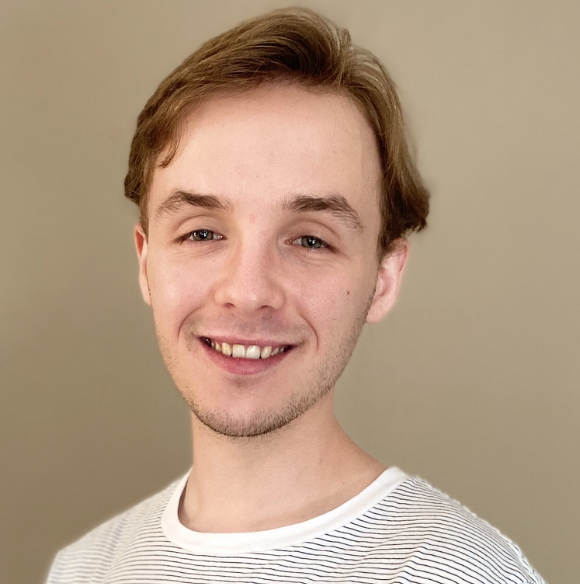
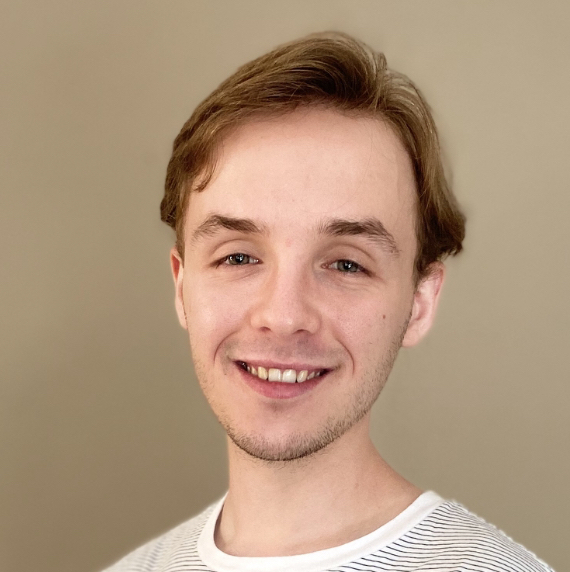
clean up

diff --git a/_site/2022/music/index.html b/_site/2022/music/index.html
@@ -64,7 +64,7 @@ Romantic Flight(How to Train Your Dragon) by John Powell
   <meta name="msapplication-TileImage" content="/assets/images/favicons/mstile-144x144.png">
   <meta name="theme-color" content="#ffffff">
   
-  <link rel="stylesheet" href="/assets/css/main.css?1660277697072665000">
+  <link rel="stylesheet" href="/assets/css/main.css?1660278052048021000">
   <link rel="canonical" href="http://localhost:4000/2022/music/">
   <link rel="alternate" type="application/rss+xml" title="Samuel Arnesen" href="/feed.xml">
 </head>
@@ -82,7 +82,7 @@ Romantic Flight(How to Train Your Dragon) by John Powell
     <div class="panel-main__inner panel-inverted">
     <div class="panel-main__content">
         <a href="/" title="link to home of Samuel Arnesen">
-          <img src="/assets/images/profile-cropped.jpg" class="user-image" alt="My Profile Photo">
+          <img src="/assets/images/profile.jpg" class="user-image" alt="My Profile Photo">
           <h1 class="panel-cover__title panel-title">Samuel Arnesen</h1>
         </a>
         <hr class="panel-cover__divider">
@@ -225,7 +225,7 @@ Romantic Flight(How to Train Your Dragon) by John Powell
 </footer>
 
 <script type="text/javascript" src="https://ajax.googleapis.com/ajax/libs/jquery/3.3.1/jquery.min.js"></script>
-<script type="text/javascript" src="/assets/js/main.js?1660277697072665000"></script>
+<script type="text/javascript" src="/assets/js/main.js?1660278052048021000"></script>
 
 
     </div>

diff --git a/_includes/header.html b/_includes/header.html
@@ -20,19 +20,19 @@
 
           <nav class="cover-navigation cover-navigation--primary">
             <ul class="navigation">
-              <li class="navigation__item"><a href="{{ site.baseurl }}/2022/hello" title="link to {{ site.title }} hello page" class="blog-button">About Me</a></li>
+              <li class="navigation__item"><a href="{{ site.baseurl }}/2022/about-me" title="link to {{ site.title }} hello page" class="blog-button">About Me</a></li>
+            </ul>
+          </nav>
+
+        <nav class="cover-navigation cover-navigation--primary">
+            <ul class="navigation">
+              <li class="navigation__item"><a href="{{ site.baseurl }}/2022/projects" title="link to {{ site.title }} projects" class="blog-button">Projects</a></li>
             </ul>
           </nav>
 
           <nav class="cover-navigation cover-navigation--primary">
             <ul class="navigation">
               <li class="navigation__item"><a href="{{ site.baseurl }}/2022/experience" title="link to {{ site.title }} experience" class="blog-button">Experience</a></li>
-            </ul>
-          </nav>
-
-          <nav class="cover-navigation cover-navigation--primary">
-            <ul class="navigation">
-              <li class="navigation__item"><a href="{{ site.baseurl }}/2022/projects" title="link to {{ site.title }} projects" class="blog-button">Projects</a></li>
             </ul>
           </nav>
 

diff --git a/_site/2022/movies/index.html b/_site/2022/movies/index.html
@@ -55,7 +55,7 @@ Summit of the Gods (2021)
   <meta name="msapplication-TileImage" content="/assets/images/favicons/mstile-144x144.png">
   <meta name="theme-color" content="#ffffff">
   
-  <link rel="stylesheet" href="/assets/css/main.css?1660277697072665000">
+  <link rel="stylesheet" href="/assets/css/main.css?1660278052048021000">
   <link rel="canonical" href="http://localhost:4000/2022/movies/">
   <link rel="alternate" type="application/rss+xml" title="Samuel Arnesen" href="/feed.xml">
 </head>
@@ -73,7 +73,7 @@ Summit of the Gods (2021)
     <div class="panel-main__inner panel-inverted">
     <div class="panel-main__content">
         <a href="/" title="link to home of Samuel Arnesen">
-          <img src="/assets/images/profile-cropped.jpg" class="user-image" alt="My Profile Photo">
+          <img src="/assets/images/profile.jpg" class="user-image" alt="My Profile Photo">
           <h1 class="panel-cover__title panel-title">Samuel Arnesen</h1>
         </a>
         <hr class="panel-cover__divider">
@@ -281,7 +281,7 @@ Summit of the Gods (2021)
 </footer>
 
 <script type="text/javascript" src="https://ajax.googleapis.com/ajax/libs/jquery/3.3.1/jquery.min.js"></script>
-<script type="text/javascript" src="/assets/js/main.js?1660277697072665000"></script>
+<script type="text/javascript" src="/assets/js/main.js?1660278052048021000"></script>
 
 
     </div>

diff --git a/_site/2022/favorites/index.html b/_site/2022/favorites/index.html
@@ -55,7 +55,7 @@ Books
   <meta name="msapplication-TileImage" content="/assets/images/favicons/mstile-144x144.png">
   <meta name="theme-color" content="#ffffff">
   
-  <link rel="stylesheet" href="/assets/css/main.css?1660277697072665000">
+  <link rel="stylesheet" href="/assets/css/main.css?1660278052048021000">
   <link rel="canonical" href="http://localhost:4000/2022/favorites/">
   <link rel="alternate" type="application/rss+xml" title="Samuel Arnesen" href="/feed.xml">
 </head>
@@ -73,7 +73,7 @@ Books
     <div class="panel-main__inner panel-inverted">
     <div class="panel-main__content">
         <a href="/" title="link to home of Samuel Arnesen">
-          <img src="/assets/images/profile-cropped.jpg" class="user-image" alt="My Profile Photo">
+          <img src="/assets/images/profile.jpg" class="user-image" alt="My Profile Photo">
           <h1 class="panel-cover__title panel-title">Samuel Arnesen</h1>
         </a>
         <hr class="panel-cover__divider">
@@ -193,7 +193,7 @@ Books
 </footer>
 
 <script type="text/javascript" src="https://ajax.googleapis.com/ajax/libs/jquery/3.3.1/jquery.min.js"></script>
-<script type="text/javascript" src="/assets/js/main.js?1660277697072665000"></script>
+<script type="text/javascript" src="/assets/js/main.js?1660278052048021000"></script>
 
 
     </div>

diff --git a/_site/2022/experience/index.html b/_site/2022/experience/index.html
@@ -52,7 +52,7 @@
   <meta name="msapplication-TileImage" content="/assets/images/favicons/mstile-144x144.png">
   <meta name="theme-color" content="#ffffff">
   
-  <link rel="stylesheet" href="/assets/css/main.css?1660277697072665000">
+  <link rel="stylesheet" href="/assets/css/main.css?1660278052048021000">
   <link rel="canonical" href="http://localhost:4000/2022/experience/">
   <link rel="alternate" type="application/rss+xml" title="Samuel Arnesen" href="/feed.xml">
 </head>
@@ -70,7 +70,7 @@
     <div class="panel-main__inner panel-inverted">
     <div class="panel-main__content">
         <a href="/" title="link to home of Samuel Arnesen">
-          <img src="/assets/images/profile-cropped.jpg" class="user-image" alt="My Profile Photo">
+          <img src="/assets/images/profile.jpg" class="user-image" alt="My Profile Photo">
           <h1 class="panel-cover__title panel-title">Samuel Arnesen</h1>
         </a>
         <hr class="panel-cover__divider">
@@ -265,7 +265,7 @@
 </footer>
 
 <script type="text/javascript" src="https://ajax.googleapis.com/ajax/libs/jquery/3.3.1/jquery.min.js"></script>
-<script type="text/javascript" src="/assets/js/main.js?1660277697072665000"></script>
+<script type="text/javascript" src="/assets/js/main.js?1660278052048021000"></script>
 
 
     </div>

diff --git a/_site/2022/about-me/index.html b/_site/2022/about-me/index.html
@@ -52,7 +52,7 @@
   <meta name="msapplication-TileImage" content="/assets/images/favicons/mstile-144x144.png">
   <meta name="theme-color" content="#ffffff">
   
-  <link rel="stylesheet" href="/assets/css/main.css?1660277697072665000">
+  <link rel="stylesheet" href="/assets/css/main.css?1660278052048021000">
   <link rel="canonical" href="http://localhost:4000/2022/about-me/">
   <link rel="alternate" type="application/rss+xml" title="Samuel Arnesen" href="/feed.xml">
 </head>
@@ -70,7 +70,7 @@
     <div class="panel-main__inner panel-inverted">
     <div class="panel-main__content">
         <a href="/" title="link to home of Samuel Arnesen">
-          <img src="/assets/images/profile-cropped.jpg" class="user-image" alt="My Profile Photo">
+          <img src="/assets/images/profile.jpg" class="user-image" alt="My Profile Photo">
           <h1 class="panel-cover__title panel-title">Samuel Arnesen</h1>
         </a>
         <hr class="panel-cover__divider">
@@ -191,7 +191,7 @@
 </footer>
 
 <script type="text/javascript" src="https://ajax.googleapis.com/ajax/libs/jquery/3.3.1/jquery.min.js"></script>
-<script type="text/javascript" src="/assets/js/main.js?1660277697072665000"></script>
+<script type="text/javascript" src="/assets/js/main.js?1660278052048021000"></script>
 
 
     </div>

diff --git a/_site/2022/projects/index.html b/_site/2022/projects/index.html
@@ -52,7 +52,7 @@
   <meta name="msapplication-TileImage" content="/assets/images/favicons/mstile-144x144.png">
   <meta name="theme-color" content="#ffffff">
   
-  <link rel="stylesheet" href="/assets/css/main.css?1660277697072665000">
+  <link rel="stylesheet" href="/assets/css/main.css?1660278052048021000">
   <link rel="canonical" href="http://localhost:4000/2022/projects/">
   <link rel="alternate" type="application/rss+xml" title="Samuel Arnesen" href="/feed.xml">
 </head>
@@ -70,7 +70,7 @@
     <div class="panel-main__inner panel-inverted">
     <div class="panel-main__content">
         <a href="/" title="link to home of Samuel Arnesen">
-          <img src="/assets/images/profile-cropped.jpg" class="user-image" alt="My Profile Photo">
+          <img src="/assets/images/profile.jpg" class="user-image" alt="My Profile Photo">
           <h1 class="panel-cover__title panel-title">Samuel Arnesen</h1>
         </a>
         <hr class="panel-cover__divider">
@@ -227,7 +227,7 @@
 </footer>
 
 <script type="text/javascript" src="https://ajax.googleapis.com/ajax/libs/jquery/3.3.1/jquery.min.js"></script>
-<script type="text/javascript" src="/assets/js/main.js?1660277697072665000"></script>
+<script type="text/javascript" src="/assets/js/main.js?1660278052048021000"></script>
 
 
     </div>

diff --git a/_site/2022/books/index.html b/_site/2022/books/index.html
@@ -52,7 +52,7 @@
   <meta name="msapplication-TileImage" content="/assets/images/favicons/mstile-144x144.png">
   <meta name="theme-color" content="#ffffff">
   
-  <link rel="stylesheet" href="/assets/css/main.css?1660277697072665000">
+  <link rel="stylesheet" href="/assets/css/main.css?1660278052048021000">
   <link rel="canonical" href="http://localhost:4000/2022/books/">
   <link rel="alternate" type="application/rss+xml" title="Samuel Arnesen" href="/feed.xml">
 </head>
@@ -70,7 +70,7 @@
     <div class="panel-main__inner panel-inverted">
     <div class="panel-main__content">
         <a href="/" title="link to home of Samuel Arnesen">
-          <img src="/assets/images/profile-cropped.jpg" class="user-image" alt="My Profile Photo">
+          <img src="/assets/images/profile.jpg" class="user-image" alt="My Profile Photo">
           <h1 class="panel-cover__title panel-title">Samuel Arnesen</h1>
         </a>
         <hr class="panel-cover__divider">
@@ -324,7 +324,7 @@
 </footer>
 
 <script type="text/javascript" src="https://ajax.googleapis.com/ajax/libs/jquery/3.3.1/jquery.min.js"></script>
-<script type="text/javascript" src="/assets/js/main.js?1660277697072665000"></script>
+<script type="text/javascript" src="/assets/js/main.js?1660278052048021000"></script>
 
 
     </div>

diff --git a/_site/categories/index.html b/_site/categories/index.html
@@ -48,7 +48,7 @@
   <meta name="msapplication-TileImage" content="/assets/images/favicons/mstile-144x144.png">
   <meta name="theme-color" content="#ffffff">
   
-  <link rel="stylesheet" href="/assets/css/main.css?1660277697072665000">
+  <link rel="stylesheet" href="/assets/css/main.css?1660278052048021000">
   <link rel="canonical" href="http://localhost:4000/categories/">
   <link rel="alternate" type="application/rss+xml" title="Samuel Arnesen" href="/feed.xml">
 </head>
@@ -66,7 +66,7 @@
     <div class="panel-main__inner panel-inverted">
     <div class="panel-main__content">
         <a href="/" title="link to home of Samuel Arnesen">
-          <img src="/assets/images/profile-cropped.jpg" class="user-image" alt="My Profile Photo">
+          <img src="/assets/images/profile.jpg" class="user-image" alt="My Profile Photo">
           <h1 class="panel-cover__title panel-title">Samuel Arnesen</h1>
         </a>
         <hr class="panel-cover__divider">
@@ -173,7 +173,7 @@
 </footer>
 
 <script type="text/javascript" src="https://ajax.googleapis.com/ajax/libs/jquery/3.3.1/jquery.min.js"></script>
-<script type="text/javascript" src="/assets/js/main.js?1660277697072665000"></script>
+<script type="text/javascript" src="/assets/js/main.js?1660278052048021000"></script>
 
 
     </div>

diff --git a/_site/404.html b/_site/404.html
@@ -46,7 +46,7 @@
   <meta name="msapplication-TileImage" content="/assets/images/favicons/mstile-144x144.png">
   <meta name="theme-color" content="#ffffff">
   
-  <link rel="stylesheet" href="/assets/css/main.css?1660277697072665000">
+  <link rel="stylesheet" href="/assets/css/main.css?1660278052048021000">
   <link rel="canonical" href="http://localhost:4000/404.html">
   <link rel="alternate" type="application/rss+xml" title="Samuel Arnesen" href="/feed.xml">
 </head>
@@ -64,7 +64,7 @@
     <div class="panel-main__inner panel-inverted">
     <div class="panel-main__content">
         <a href="/" title="link to home of Samuel Arnesen">
-          <img src="/assets/images/profile-cropped.jpg" class="user-image" alt="My Profile Photo">
+          <img src="/assets/images/profile.jpg" class="user-image" alt="My Profile Photo">
           <h1 class="panel-cover__title panel-title">Samuel Arnesen</h1>
         </a>
         <hr class="panel-cover__divider">
@@ -185,7 +185,7 @@
 </footer>
 
 <script type="text/javascript" src="https://ajax.googleapis.com/ajax/libs/jquery/3.3.1/jquery.min.js"></script>
-<script type="text/javascript" src="/assets/js/main.js?1660277697072665000"></script>
+<script type="text/javascript" src="/assets/js/main.js?1660278052048021000"></script>
 
 
     </div>

diff --git a/_site/about/index.html b/_site/about/index.html
@@ -46,7 +46,7 @@
   <meta name="msapplication-TileImage" content="/assets/images/favicons/mstile-144x144.png">
   <meta name="theme-color" content="#ffffff">
   
-  <link rel="stylesheet" href="/assets/css/main.css?1660277697072665000">
+  <link rel="stylesheet" href="/assets/css/main.css?1660278052048021000">
   <link rel="canonical" href="http://localhost:4000/about/">
   <link rel="alternate" type="application/rss+xml" title="Samuel Arnesen" href="/feed.xml">
 </head>
@@ -64,7 +64,7 @@
     <div class="panel-main__inner panel-inverted">
     <div class="panel-main__content">
         <a href="/" title="link to home of Samuel Arnesen">
-          <img src="/assets/images/profile-cropped.jpg" class="user-image" alt="My Profile Photo">
+          <img src="/assets/images/profile.jpg" class="user-image" alt="My Profile Photo">
           <h1 class="panel-cover__title panel-title">Samuel Arnesen</h1>
         </a>
         <hr class="panel-cover__divider">
@@ -185,7 +185,7 @@
 </footer>
 
 <script type="text/javascript" src="https://ajax.googleapis.com/ajax/libs/jquery/3.3.1/jquery.min.js"></script>
-<script type="text/javascript" src="/assets/js/main.js?1660277697072665000"></script>
+<script type="text/javascript" src="/assets/js/main.js?1660278052048021000"></script>
 
 
     </div>

diff --git a/_site/tags/index.html b/_site/tags/index.html
@@ -48,7 +48,7 @@
   <meta name="msapplication-TileImage" content="/assets/images/favicons/mstile-144x144.png">
   <meta name="theme-color" content="#ffffff">
   
-  <link rel="stylesheet" href="/assets/css/main.css?1660277697072665000">
+  <link rel="stylesheet" href="/assets/css/main.css?1660278052048021000">
   <link rel="canonical" href="http://localhost:4000/tags/">
   <link rel="alternate" type="application/rss+xml" title="Samuel Arnesen" href="/feed.xml">
 </head>
@@ -66,7 +66,7 @@
     <div class="panel-main__inner panel-inverted">
     <div class="panel-main__content">
         <a href="/" title="link to home of Samuel Arnesen">
-          <img src="/assets/images/profile-cropped.jpg" class="user-image" alt="My Profile Photo">
+          <img src="/assets/images/profile.jpg" class="user-image" alt="My Profile Photo">
           <h1 class="panel-cover__title panel-title">Samuel Arnesen</h1>
         </a>
         <hr class="panel-cover__divider">
@@ -173,7 +173,7 @@
 </footer>
 
 <script type="text/javascript" src="https://ajax.googleapis.com/ajax/libs/jquery/3.3.1/jquery.min.js"></script>
-<script type="text/javascript" src="/assets/js/main.js?1660277697072665000"></script>
+<script type="text/javascript" src="/assets/js/main.js?1660278052048021000"></script>
 
 
     </div>
